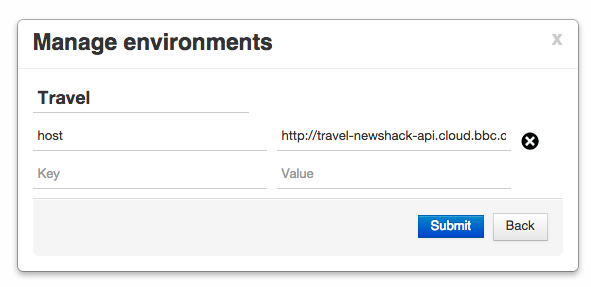
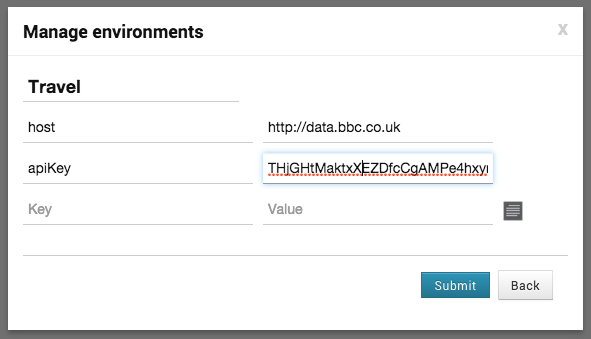
Updating Travel's postman collection for ApiGee

diff --git a/html/Travel.html b/html/Travel.html
@@ -93,7 +93,7 @@
 <p>Locations within the Travel API are closely linked to the <a href="./Locator.html#locations">locations in the Locator API</a>.  Querying the Travel API by location will return a summary of location and all travel incidents occuring at this location.  The location in the response contains the properties such as id, latitude, longitude, name, container.  In addition to these properties some locations have nearby rail stations, light rail stations and ferry ports.  Stations and ports have a unique code and name.</p>
 <h2 id="travel-postman-collection">Travel Postman Collection</h2>
 <p>If you install the free <a href="https://www.getpostman.com">Postman REST Client</a> you can import the Travel API into using this URL:</p>
-<p><strong><a href="https://www.getpostman.com/collections/1b1ff24c4e6af0e98df8">https://www.getpostman.com/collections/1b1ff24c4e6af0e98df8</a></strong></p>
+<p><strong><a href="https://www.getpostman.com/collections/3133e9c7ed0e797e2ddf">https://www.getpostman.com/collections/3133e9c7ed0e797e2ddf</a></strong></p>
 <p>This allows you to easily try out the API and explore how it works without writing any code.</p>
 <p>You will need to configure an &quot;Environment&quot; within Postman to be able to make calls. You will need to set a host parameter with value <a href="http://data.bbc.co.uk/">http://data.bbc.co.uk/</a> and an apikey.</p>
 <p><img src=" ./img/travel-postman.png" height="300" /></p>
